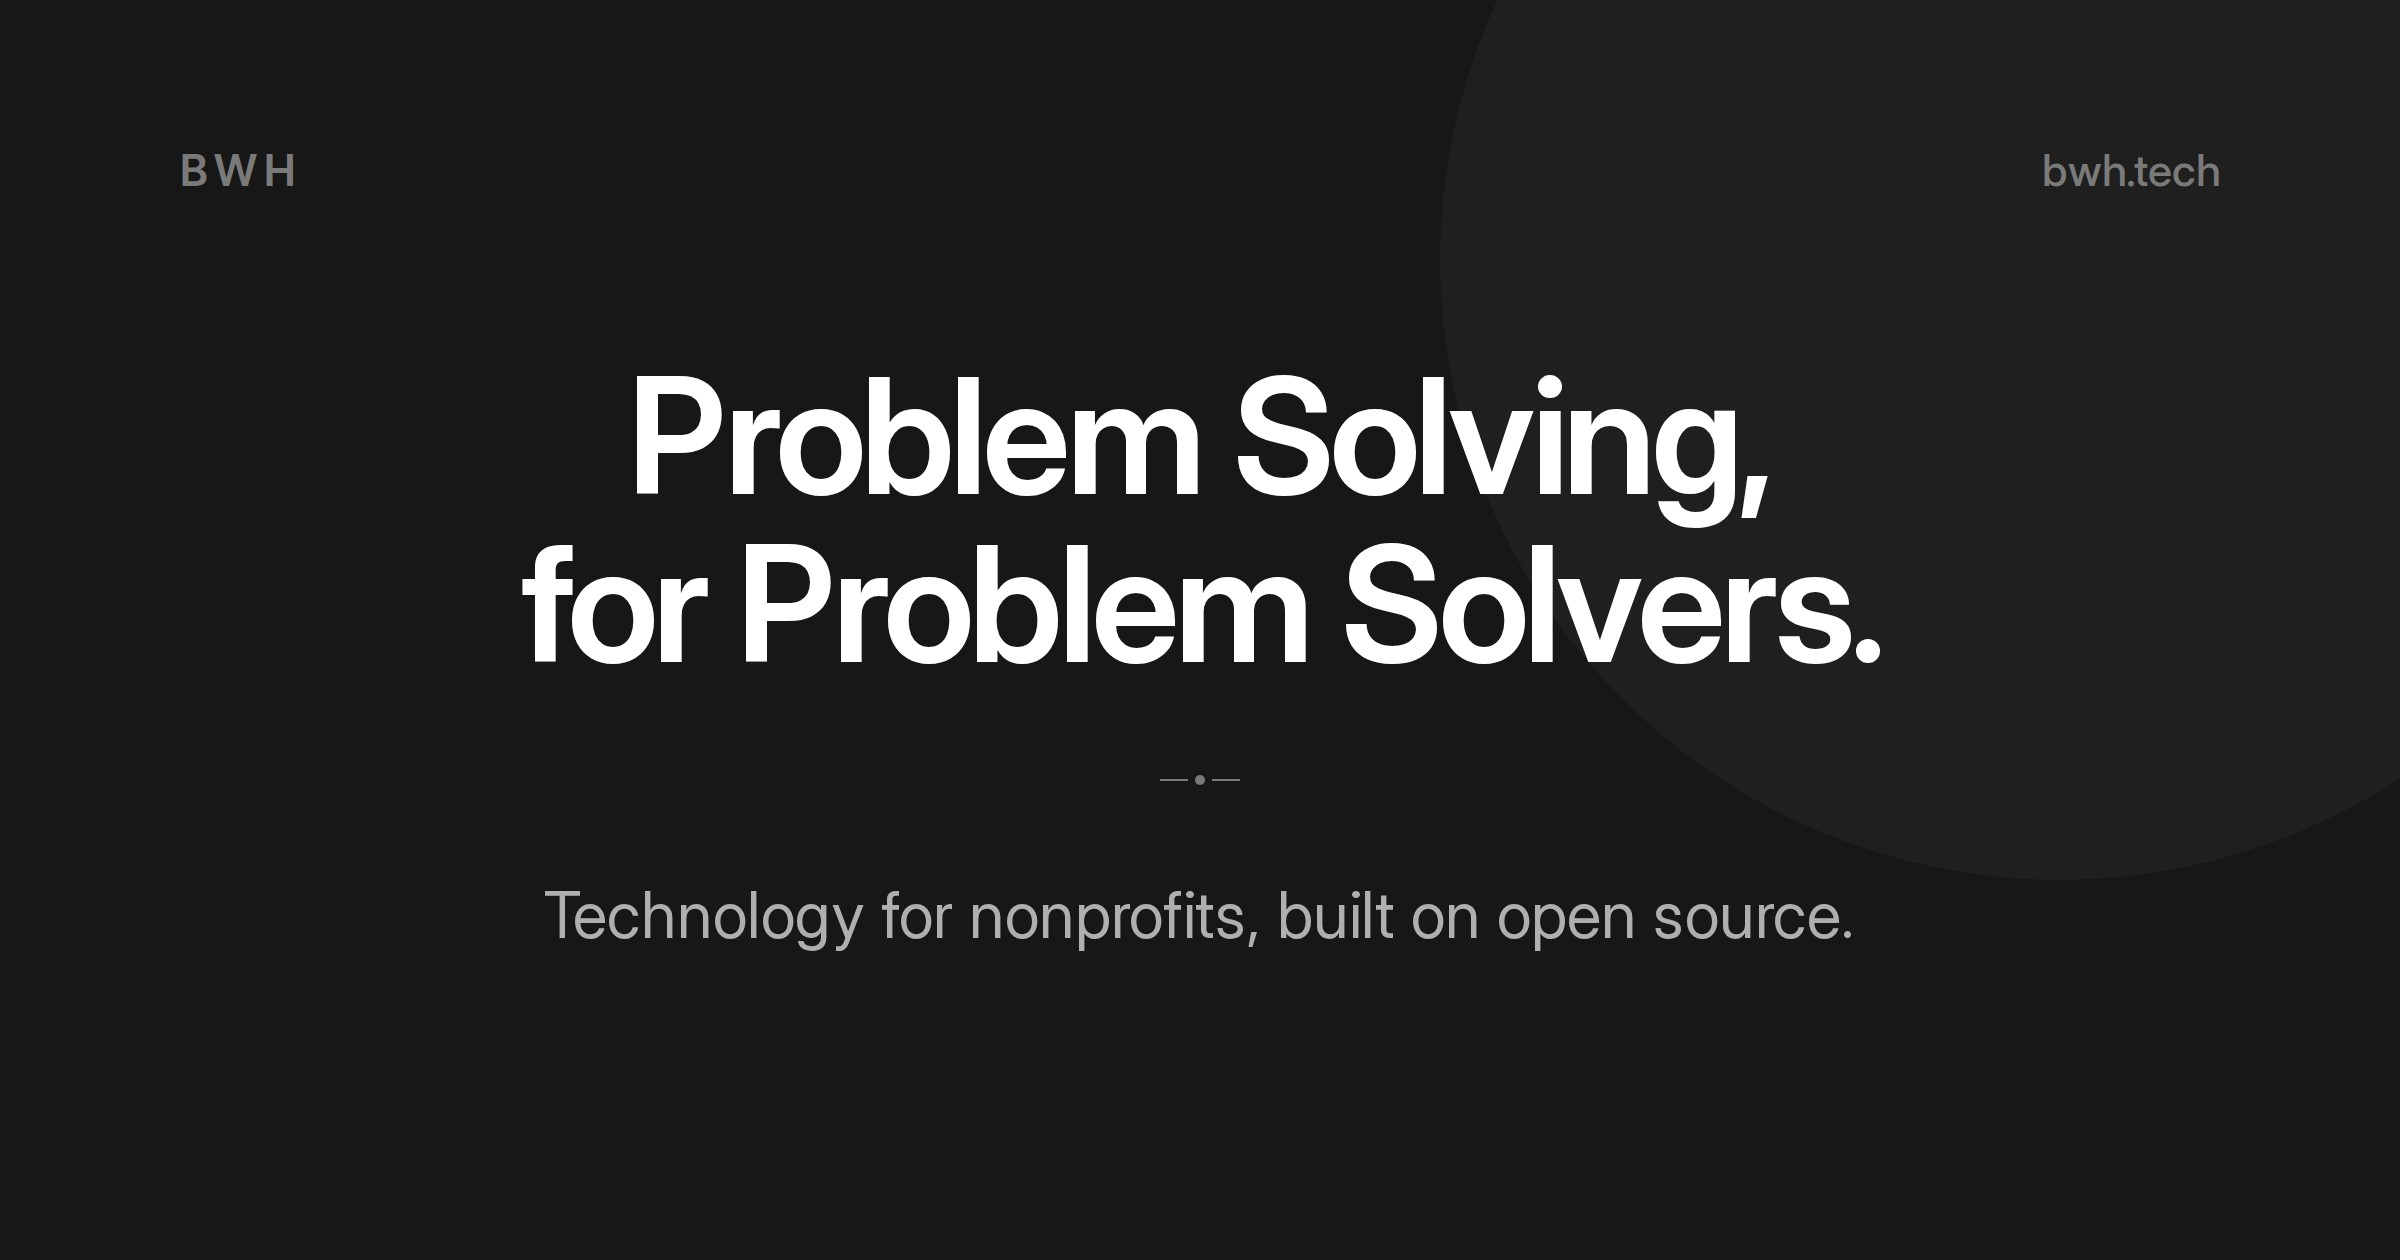
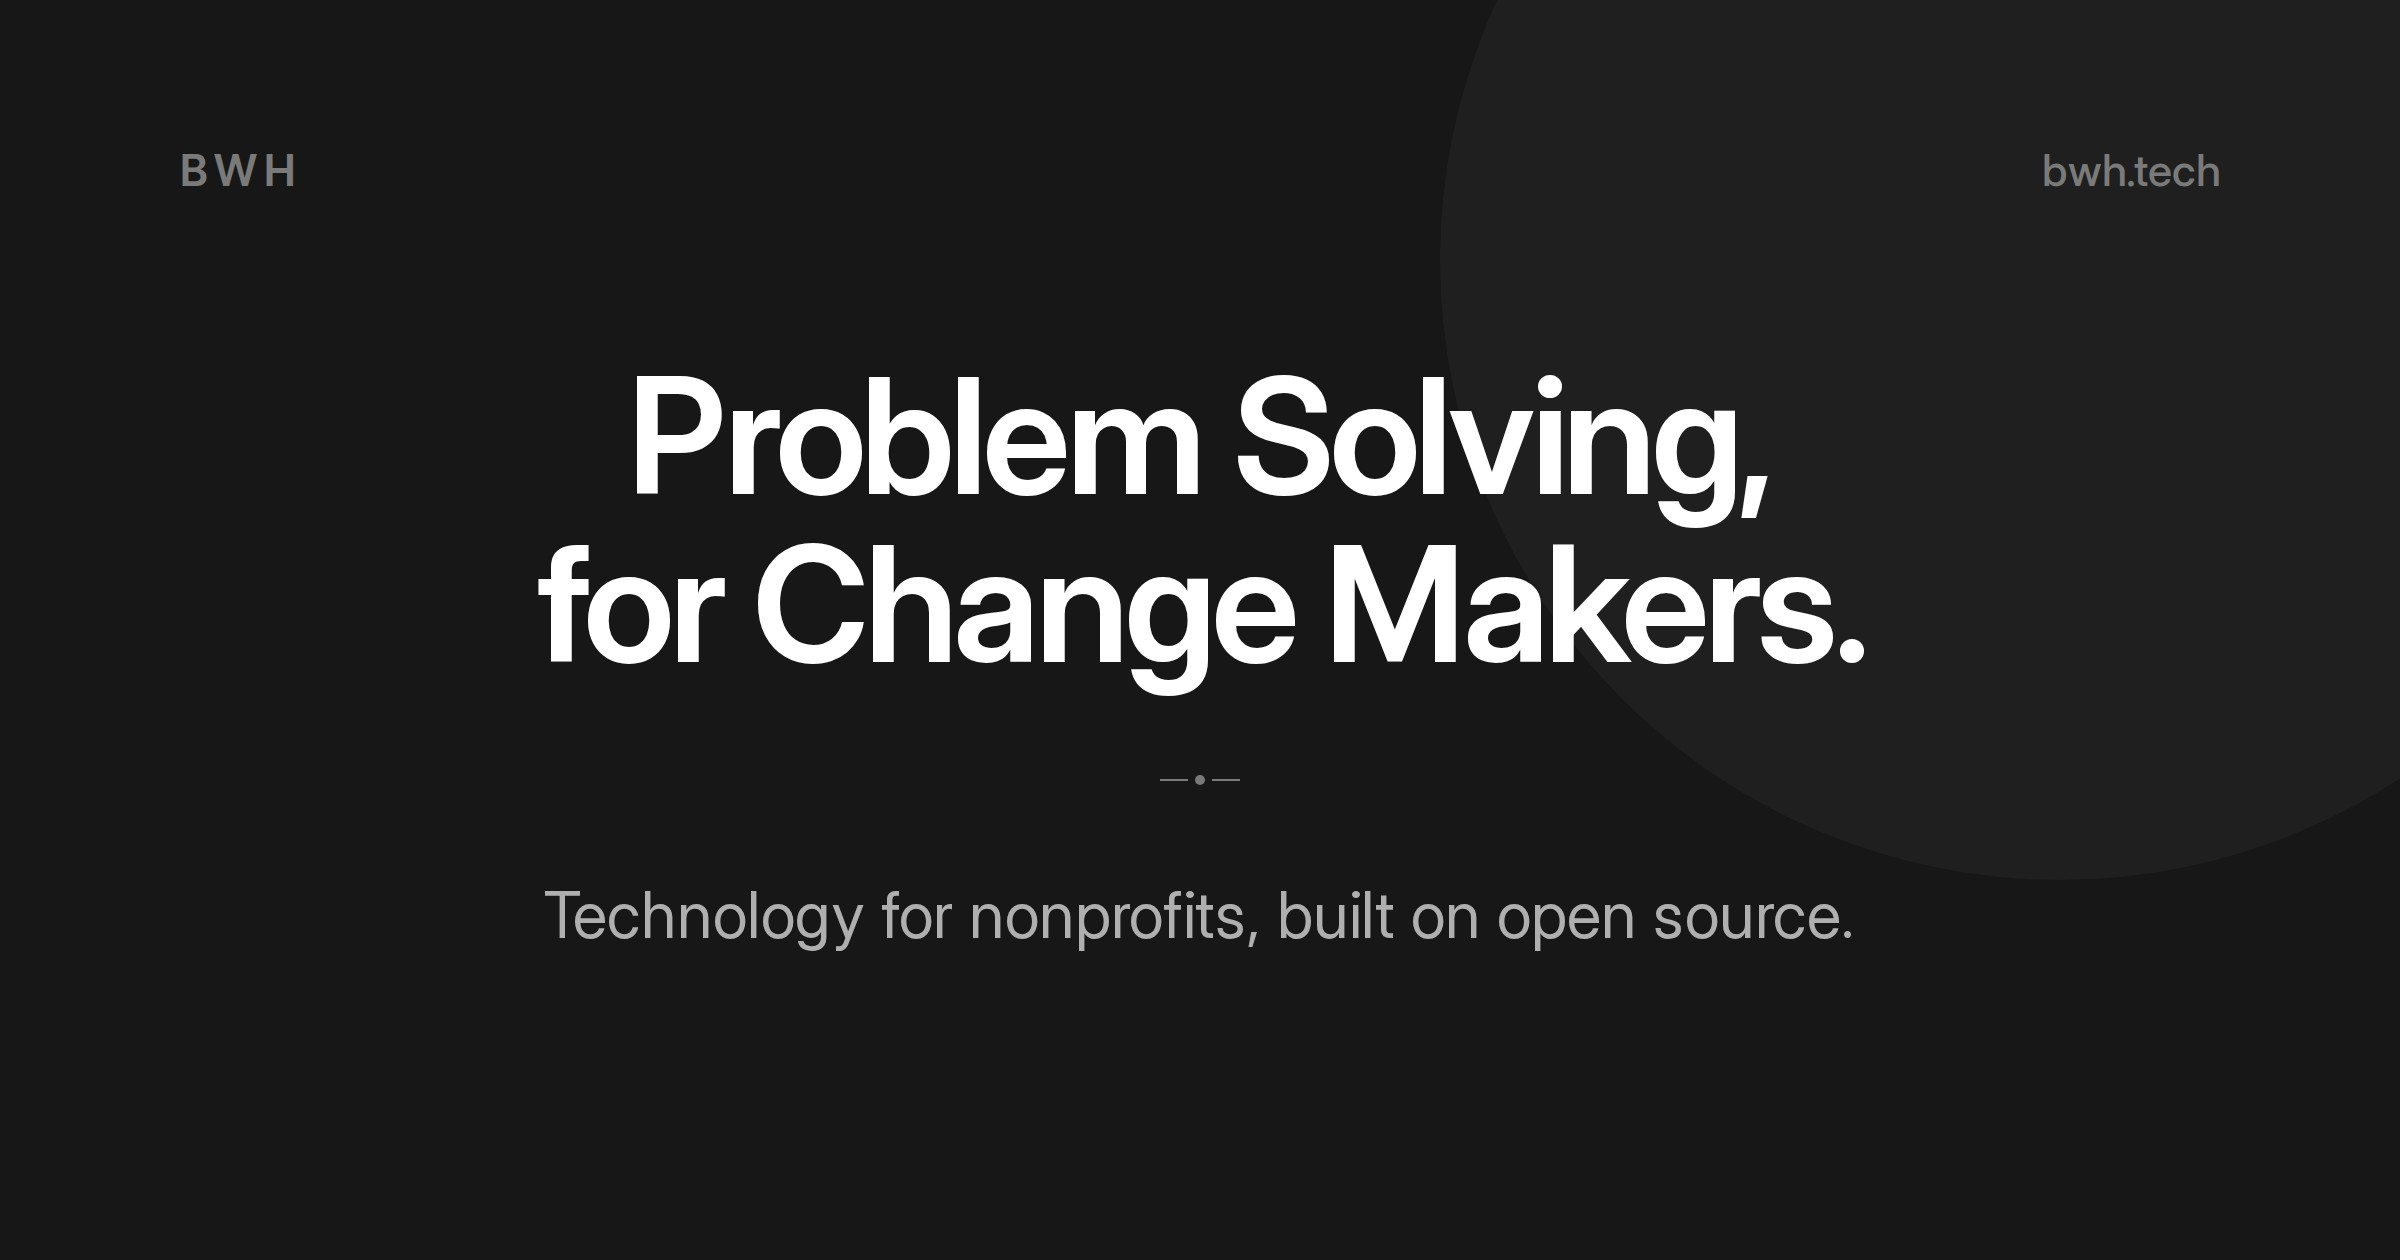
Change the landing headline to Problem Solving, for Change Makers
Update the share image and the positioning line in PRODUCT.md to match.

Changed region(s): [[0.2188, 0.4333, 0.7812, 0.5571]]

diff --git a/src/data/landing.ts b/src/data/landing.ts
@@ -21,7 +21,7 @@ import { TBD } from './training';
 export const CHECKED_ON = '2026-10-26';
 
 export const HEADLINE = {
-	title: 'Problem Solving, for Problem Solvers.',
+	title: 'Problem Solving, for Change Makers.',
 	lede: "You're changing lives. We turn the Excel sheets, Google Forms and duct-taped scripts slowing you down into one system your team owns.",
 };
 

diff --git a/PRODUCT.md b/PRODUCT.md
@@ -20,7 +20,7 @@ Success for the landing page: a nonprofit leader understands within seconds that
 
 ## Positioning
 
-"Problem solvers, for the problem solvers." Tell us the problem; we work out the solution with you, and we listen first. The difference from other vendors:
+"Problem solving, for change makers." Tell us the problem; we work out the solution with you, and we listen first. The difference from other vendors:
 
 - The team are core contributors to the open-source stack they build on (Frappe Framework, ERPNext, Frappe HR). As of 2026-10-26 the team has 1,043 merged pull requests in `frappe/*` repositories.
 - Train the trainer: the client's own staff learn to run and extend the system. BWH is an official Frappe School partner (source: the BWH blog only; Frappe's partner directory does not list it yet).
